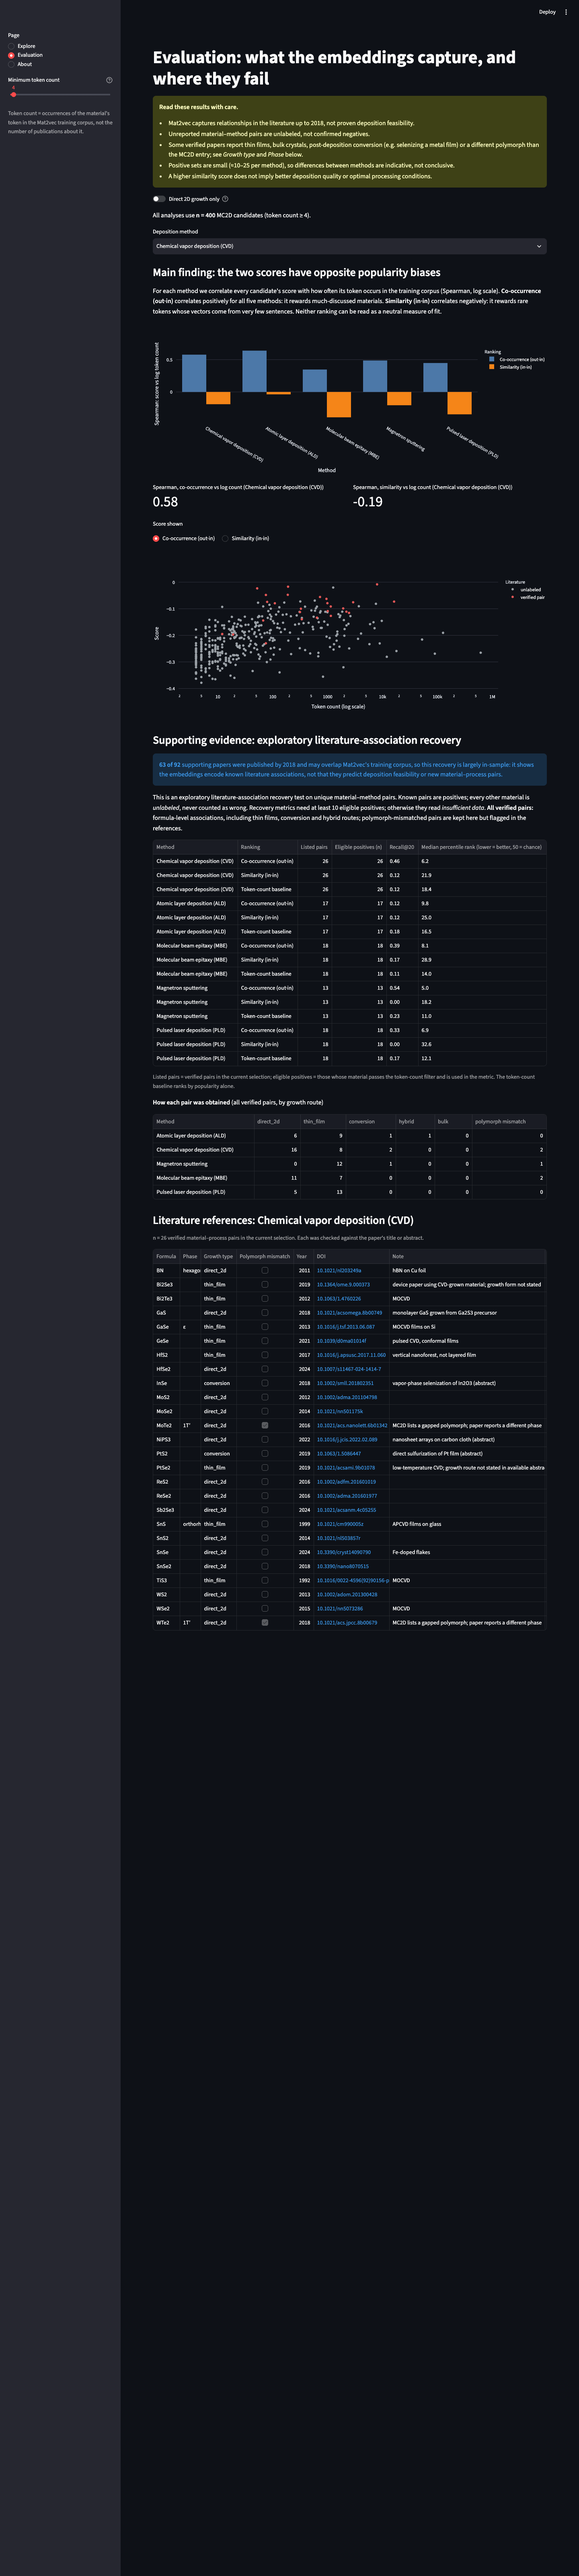
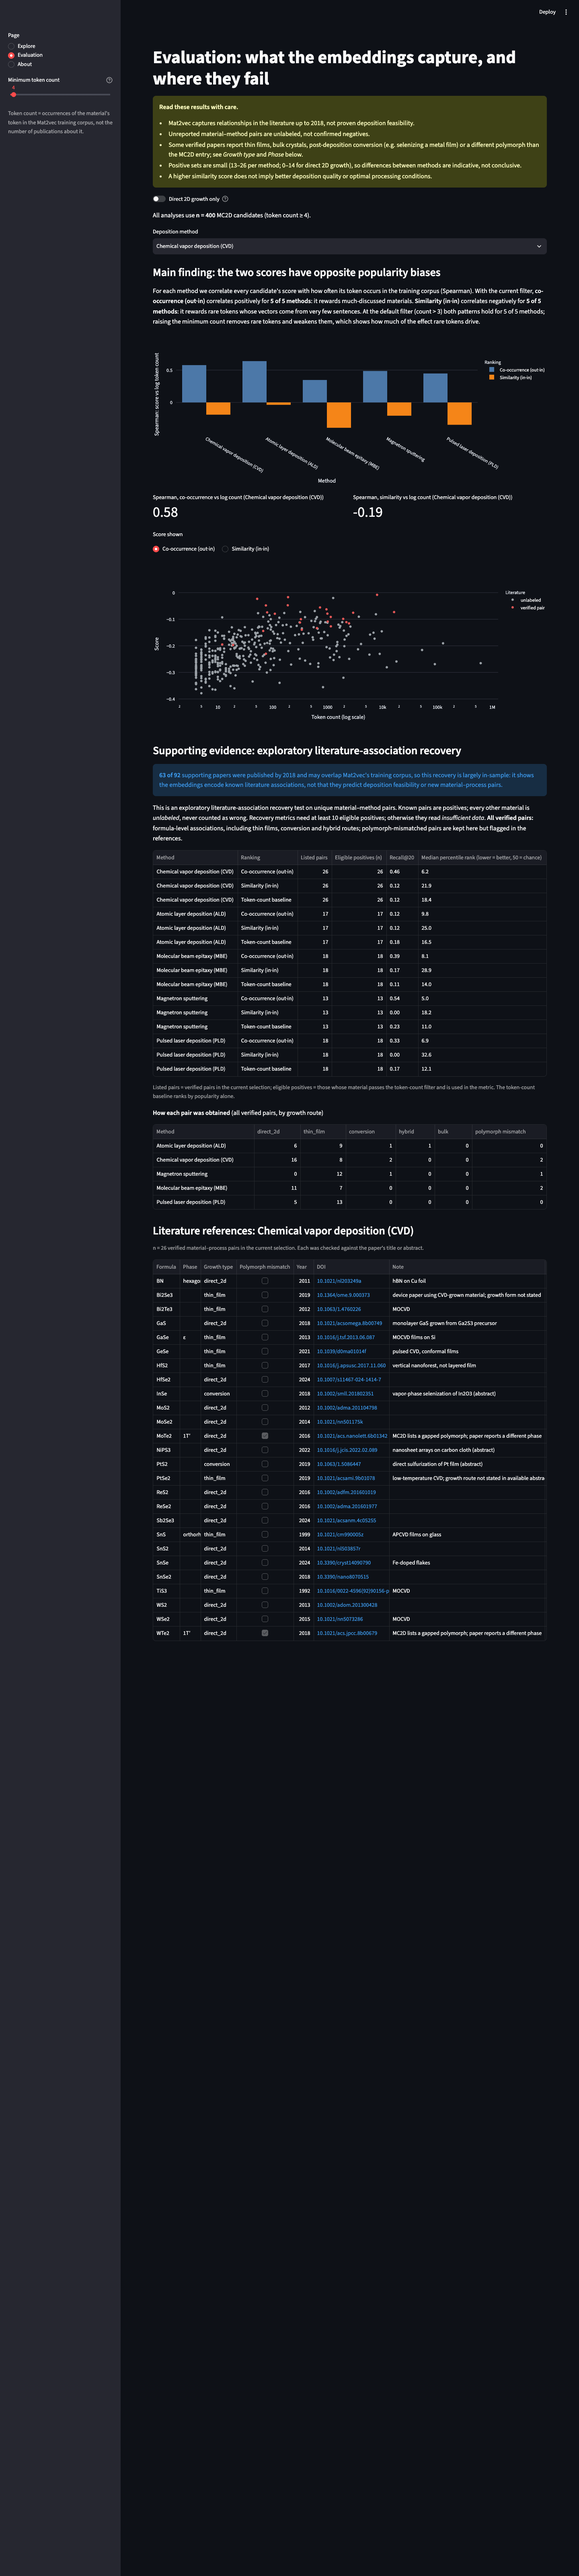
fix: final-review findings
- tools/find_literature.py: contact email from LITERATURE_MAILTO, none in the repo
- free-text targets accept formulas in written order (WS2 -> S2W) via a pure-Python
  twin of normalized_formula, cross-checked against it in tests
- Evaluation main-finding sentence computed from the current filter
- limitations state the actual positive-set sizes (13–26; 0–14 direct 2D)

diff --git a/explorer/app.py b/explorer/app.py
@@ -38,7 +38,8 @@ LIMITATIONS = """**Read these results with care.**
 - Unreported material–method pairs are unlabeled, not confirmed negatives.
 - Some verified papers report thin films, bulk crystals, post-deposition conversion (e.g. selenizing a metal film)
   or a different polymorph than the MC2D entry; see *Growth type* and *Phase* below.
-- Positive sets are small (≈10–25 per method), so differences between methods are indicative, not conclusive.
+- Positive sets are small (13–26 per method; 0–14 for direct 2D growth), so differences between methods are
+  indicative, not conclusive.
 - A higher similarity score does not imply better deposition quality or optimal processing conditions."""
 
 st.set_page_config(page_title="2D Semiconductor Explorer", layout="wide")
@@ -94,7 +95,8 @@ def pick_target(vec):
     if free.strip():
         resolved = r.resolve_target(free, vec["vocab_index"])
         if resolved is None:
-            st.warning(f"“{free}” is not in vocabulary (top 50,000 Mat2vec tokens). "
+            st.warning(f"“{free}” is not in vocabulary (top 50,000 Mat2vec tokens; formulas are stored "
+                       "normalized, e.g. WS2 → S2W). "
                        f"Showing “{chosen.replace('_', ' ')}” instead.")
         else:
             chosen = resolved
@@ -232,16 +234,20 @@ def evaluation(data, min_count):
     label = st.selectbox("Deposition method", list(METHODS), key="eval_method")
 
     # --- Main finding: needs no literature labels at all.
-    st.subheader("Main finding: the two scores have opposite popularity biases")
-    st.markdown(
-        "For each method we correlate every candidate's score with how often its token occurs in the training "
-        "corpus (Spearman, log scale). **Co-occurrence (out·in)** correlates positively for all five methods: it "
-        "rewards much-discussed materials. **Similarity (in·in)** correlates negatively: it rewards rare tokens "
-        "whose vectors come from very few sentences. Neither ranking can be read as a neutral measure of fit.")
     targets = {lab: vec["vocab_in"][vec["vocab_index"][tok]] for lab, tok in METHODS.items()}
     bias = pd.DataFrame([{"Method": lab, "Ranking": RANKINGS[m],
                           "Spearman": r.popularity_bias(r.score(vec[VECTORS[m]][idx], t), sub["count"])["spearman"]}
                          for lab, t in targets.items() for m in ("out_in", "in_in")])
+    out_pos = int((bias[bias.Ranking == RANKINGS["out_in"]].Spearman > 0).sum())
+    in_neg = int((bias[bias.Ranking == RANKINGS["in_in"]].Spearman < 0).sum())
+    st.subheader("Main finding: the two scores have opposite popularity biases")
+    st.markdown(
+        "For each method we correlate every candidate's score with how often its token occurs in the training "
+        f"corpus (Spearman). With the current filter, **co-occurrence (out·in)** correlates positively for "
+        f"**{out_pos} of 5 methods**: it rewards much-discussed materials. **Similarity (in·in)** correlates "
+        f"negatively for **{in_neg} of 5 methods**: it rewards rare tokens whose vectors come from very few "
+        "sentences. At the default filter (count > 3) both patterns hold for 5 of 5 methods; raising the minimum "
+        "count removes rare tokens and weakens them, which shows how much of the effect rare tokens drive.")
     st.plotly_chart(px.bar(bias, x="Method", y="Spearman", color="Ranking", barmode="group", height=380,
                            color_discrete_map=MODE_COLORS,
                            labels={"Spearman": "Spearman: score vs log token count"}), width="stretch")

diff --git a/explorer/ranking.py b/explorer/ranking.py
@@ -6,8 +6,13 @@ Two ranking modes share one function:
            "likelihood of co-occurring with the target word"
 All scores use the full 200-d vectors; PCA is display-only.
 """
+import math
+import re
+
 import numpy as np
 import pandas as pd
+
+FORMULA_PART = re.compile(r"([A-Z][a-z]?)(\d*)")
 
 
 def unit(X):
@@ -28,10 +33,27 @@ def ranks(scores):
     return out
 
 
+def sort_formula(text):
+    """Plain integer formula -> Mat2vec's normalized token, e.g. WS2 -> S2W, Mo2S4 -> MoS2; else None.
+
+    Pure-Python twin of formula.normalized_formula (which needs pymatgen, a build-only dependency);
+    a test checks the two agree on every formula in the literature set.
+    """
+    parts = FORMULA_PART.findall(text)
+    if not parts or "".join(e + n for e, n in parts) != text:
+        return None
+    counts = {}
+    for element, n in parts:
+        counts[element] = counts.get(element, 0) + int(n or 1)
+    g = math.gcd(*counts.values())
+    return "".join(e + (str(c // g) if c // g > 1 else "") for e, c in sorted(counts.items()))
+
+
 def resolve_target(text, token_index):
-    """Map user text to a vocabulary token: exact (formulas are case-sensitive), lowercase, then phrase."""
+    """Map user text to a vocabulary token: exact (formulas are case-sensitive), the formula in Mat2vec's
+    normalized order (WS2 -> S2W), lowercase, then phrase."""
     text = text.strip()
-    for cand in (text, text.lower(), "_".join(text.lower().split())):
+    for cand in (text, sort_formula(text), text.lower(), "_".join(text.lower().split())):
         if cand and cand in token_index:
             return cand
     return None

diff --git a/tools/find_literature.py b/tools/find_literature.py
@@ -8,6 +8,7 @@ formula and whose title or abstract names the method. growth_type / phase are ke
 every row is reviewed by hand before it is copied into data/known_methods.csv.
 """
 import csv
+import os
 import re
 import sys
 import time
@@ -19,7 +20,7 @@ sys.path.insert(0, str(Path(__file__).resolve().parents[1]))
 from explorer.formula import normalized_formula  # noqa: E402
 
 API = "https://api.openalex.org/works"
-MAILTO = "you@example.com"
+MAILTO = os.environ.get("LITERATURE_MAILTO", "")  # polite-pool contact for OpenAlex/Crossref; set it locally
 METHODS = {
     "chemical_vapor_deposition": ("chemical vapor deposition", r"chemical vapou?r deposition|\bCVD\b"),
     "ALD": ("atomic layer deposition", r"atomic layer deposition|\bALD\b"),
@@ -101,6 +102,8 @@ def best_hit_crossref(material, phrase, method_re):
 
 
 def main():
+    if not MAILTO:
+        sys.exit("Set LITERATURE_MAILTO to your email (OpenAlex/Crossref polite pool) before running.")
     source = sys.argv[1] if len(sys.argv) > 1 else "openalex"
     only = sys.argv[2:] or list(METHODS)
     finder = best_hit if source == "openalex" else best_hit_crossref

diff --git a/tests/test_app.py b/tests/test_app.py
@@ -134,3 +134,24 @@ def test_query_params_select_page_and_view():
     at.query_params["view"] = "3D"
     at.run()
     assert at.radio(key="dims").value == "3D" and not at.exception
+
+
+def test_free_text_formula_in_written_order_resolves():
+    at = run()
+    at.text_input(key="free").input("WS2").run()
+    assert not at.exception
+    assert not any("not in vocabulary" in w.value for w in at.warning)
+    assert any(s.value == "Target: S2W" for s in at.subheader)
+
+
+def test_main_finding_text_follows_the_computed_bias():
+    at = eval_page()
+    at.slider(key="min_count").set_value(100).run()
+    body = text(at)
+    assert "for all five methods" not in body          # at count >= 100 the pattern breaks
+    assert "of 5 methods" in body
+
+
+def test_limitations_state_actual_positive_set_sizes():
+    body = text(eval_page())
+    assert "13–26 per method" in body and "≈10–25" not in body

diff --git a/tests/test_ranking.py b/tests/test_ranking.py
@@ -61,3 +61,16 @@ def test_method_report_rows_baseline_and_insufficient_label():
     small = r.method_report(cin, cout, t, counts, pos & (counts > 25), k=10, min_pos=10)
     assert not small.loc["out_in"].sufficient and np.isnan(small.loc["out_in"].recall_at_k)
     assert not np.isnan(small.loc["out_in"].spearman_log_count)   # bias analysis needs no labels
+
+
+def test_resolve_target_accepts_formula_in_written_order():
+    idx = {"S2W": 0, "MoS2": 1, "CoLiO2": 2}
+    assert r.resolve_target("WS2", idx) == "S2W"
+    assert r.resolve_target("LiCoO2", idx) == "CoLiO2"
+    assert r.resolve_target("Mo2S4", idx) == "MoS2"
+
+
+def test_sort_formula_handles_only_simple_integer_formulas():
+    assert r.sort_formula("WS2") == "S2W" and r.sort_formula("Mo2S4") == "MoS2"
+    assert r.sort_formula("thermoelectric") is None and r.sort_formula("ws2") is None
+    assert r.sort_formula("Ni0.5Fe0.5") is None

diff --git a/tests/test_formula.py b/tests/test_formula.py
@@ -22,3 +22,11 @@ def test_d_and_t_are_not_elements_like_in_original_mat2vec():
     assert not is_simple_formula("AgNT")
     assert normalized_formula("AlD3") == "AlD3"   # unparseable -> returned unchanged, as before
     assert is_simple_formula("Bi2Te3") and normalized_formula("Ti3C2") == "C2Ti3"
+
+
+def test_runtime_sort_formula_matches_vendored_normalization():
+    import pandas as pd
+    from explorer.ranking import sort_formula
+    formulas = set(pd.read_csv("data/known_methods.csv").formula) | {"LiCoO2", "Mo2S4", "GaAs", "Bi2Te3"}
+    for f in formulas:
+        assert sort_formula(f) == normalized_formula(f), f

diff --git a/tests/test_repo_hygiene.py b/tests/test_repo_hygiene.py
@@ -1,0 +1,7 @@
+import subprocess
+
+
+def test_no_personal_email_in_tracked_files():
+    hits = subprocess.run(["git", "grep", "-n", "-I", "-E", r"[A-Za-z0-9._%+-]+@gmail\.com"],
+                          capture_output=True, text=True).stdout
+    assert hits == "", hits

diff --git a/README.md b/README.md
@@ -127,6 +127,7 @@ data/
   known_methods.csv   92 verified material–method pairs (DOI, growth type, phase, evidence, notes)
 tools/
   find_literature.py  OpenAlex/Crossref candidate search used to build known_methods.csv (provenance)
+                      (set LITERATURE_MAILTO=<your email> first: OpenAlex/Crossref polite pool)
 tests/            formula, ranking, build, literature-set integrity, Streamlit AppTest (32 tests)
 docs/             design spec, implementation plan, screenshots
 ```
